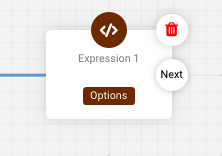
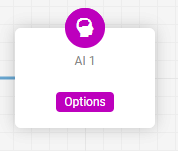
GitBook: [master] one page and 6 assets modified

diff --git a/help/user-guide.md b/help/user-guide.md
@@ -91,9 +91,15 @@ Through this step the Bot can be connected to external systems              \(ER
 
 Through this step the Bot can make simple calculations using mathematical, numerical, text and/or date-time formulas.
 
-![Expression ](../.gitbook/assets/image%20%2812%29.png)
+![Expression ](../.gitbook/assets/image%20%2813%29.png)
 
 ##  AI step
+
+![AI step](../.gitbook/assets/ai.PNG)
+
+
+
+The AI step can further the intelligence of your Bot by adding an extra level of thinking. 
 
 ## **Trace log step**
 
@@ -156,7 +162,7 @@ Two buttons appear on the card: "Open" \(in blue\), this opens the bot in the de
 
 Click "Open" the bot will open in the designer to be viewed or edited.
 
-![Designer](../.gitbook/assets/image%20%2814%29.png)
+![Designer](../.gitbook/assets/image%20%2815%29.png)
 
 ![Option to open bot](../.gitbook/assets/image%20%2811%29.png)
 
